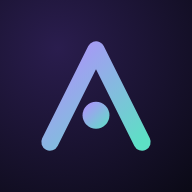
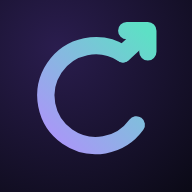
COINFORCE logosu: yükselen C işareti
Uygulama simgeleri (tüm boyutlar) ve uygulama içindeki logolar,
ucu yukarı oka dönüşen coin çemberi 'C' ile değiştirildi.

Claude-Session: https://claude.ai/code/session_014cYbdYCCGfRzC3ECsCHBLf

Changed region(s): [[0.1875, 0.0938, 0.8438, 0.8125]]

diff --git a/index.html b/index.html
@@ -468,7 +468,7 @@ nav.bar button.on .nav-av{box-shadow:0 0 0 2px var(--surface2),0 0 0 4px var(--a
 <div class="auth" id="auth" hidden>
   <div class="auth-in">
     <div class="auth-brand">
-      <svg viewBox="0 0 100 100" aria-hidden="true"><defs><radialGradient id="lgA1" cx=".3" cy=".25" r="1"><stop offset="0" stop-color="#2a1d4e"/><stop offset="1" stop-color="#0b0a17"/></radialGradient><linearGradient id="lgB1" x1="0" y1="0" x2="1" y2="1"><stop offset="0" stop-color="#b58cff"/><stop offset="1" stop-color="#5de0c5"/></linearGradient></defs><rect width="100" height="100" rx="24" fill="url(#lgA1)"/><path d="M26 74 L50 26 L74 74" fill="none" stroke="url(#lgB1)" stroke-width="9" stroke-linecap="round" stroke-linejoin="round"/><circle cx="50" cy="60" r="7" fill="url(#lgB1)"/></svg>
+      <svg viewBox="0 0 100 100" aria-hidden="true"><defs><radialGradient id="lgA1" cx=".3" cy=".25" r="1"><stop offset="0" stop-color="#2a1d4e"/><stop offset="1" stop-color="#0b0a17"/></radialGradient><linearGradient id="lgB1" gradientUnits="userSpaceOnUse" x1="20" y1="80" x2="80" y2="20"><stop offset="0" stop-color="#b58cff"/><stop offset="1" stop-color="#5de0c5"/></linearGradient></defs><rect width="100" height="100" rx="24" fill="url(#lgA1)"/><g transform="translate(50 50) scale(1) translate(-50 -50)"><path d="M71 65 A26 26 0 1 1 64 28" fill="none" stroke="url(#lgB1)" stroke-width="9" stroke-linecap="round"/><path d="M64 28 L76 17" stroke="url(#lgB1)" stroke-width="9" stroke-linecap="round"/><path d="M66 16 H77 V27" fill="none" stroke="url(#lgB1)" stroke-width="9" stroke-linecap="round" stroke-linejoin="round"/></g></svg>
       <div class="auth-name">COINFORCE</div>
       <p>Kripto al, sat, takas et. Sanal bakiyeyle risksiz dene.</p>
     </div>
@@ -513,7 +513,7 @@ nav.bar button.on .nav-av{box-shadow:0 0 0 2px var(--surface2),0 0 0 4px var(--a
 <!-- HOME -->
 <div class="screen" id="s-home">
   <div class="top">
-    <div class="logo"><svg viewBox="0 0 100 100" aria-hidden="true"><defs><radialGradient id="lgA2" cx=".3" cy=".25" r="1"><stop offset="0" stop-color="#2a1d4e"/><stop offset="1" stop-color="#0b0a17"/></radialGradient><linearGradient id="lgB2" x1="0" y1="0" x2="1" y2="1"><stop offset="0" stop-color="#b58cff"/><stop offset="1" stop-color="#5de0c5"/></linearGradient></defs><rect width="100" height="100" rx="24" fill="url(#lgA2)"/><path d="M26 74 L50 26 L74 74" fill="none" stroke="url(#lgB2)" stroke-width="9" stroke-linecap="round" stroke-linejoin="round"/><circle cx="50" cy="60" r="7" fill="url(#lgB2)"/></svg>COINFORCE<span class="demo-tag">Demo</span></div>
+    <div class="logo"><svg viewBox="0 0 100 100" aria-hidden="true"><defs><radialGradient id="lgA2" cx=".3" cy=".25" r="1"><stop offset="0" stop-color="#2a1d4e"/><stop offset="1" stop-color="#0b0a17"/></radialGradient><linearGradient id="lgB2" gradientUnits="userSpaceOnUse" x1="20" y1="80" x2="80" y2="20"><stop offset="0" stop-color="#b58cff"/><stop offset="1" stop-color="#5de0c5"/></linearGradient></defs><rect width="100" height="100" rx="24" fill="url(#lgA2)"/><g transform="translate(50 50) scale(1) translate(-50 -50)"><path d="M71 65 A26 26 0 1 1 64 28" fill="none" stroke="url(#lgB2)" stroke-width="9" stroke-linecap="round"/><path d="M64 28 L76 17" stroke="url(#lgB2)" stroke-width="9" stroke-linecap="round"/><path d="M66 16 H77 V27" fill="none" stroke="url(#lgB2)" stroke-width="9" stroke-linecap="round" stroke-linejoin="round"/></g></svg>COINFORCE<span class="demo-tag">Demo</span></div>
     <div class="top-r"><button class="icon-btn bell" type="button" data-open="notifs" aria-label="Bildirimler"><svg viewBox="0 0 24 24" fill="none" stroke="currentColor" stroke-width="2.2" stroke-linecap="round" stroke-linejoin="round"><path d="M6 8a6 6 0 0 1 12 0c0 7 3 9 3 9H3s3-2 3-9"/><path d="M10.3 21a1.9 1.9 0 0 0 3.4 0"/></svg><span class="badge" id="notifBadge" hidden>0</span></button>
     <button class="icon-btn" id="themeBtn" type="button" aria-label="Temayı değiştir"><svg viewBox="0 0 24 24" fill="none" stroke="currentColor" stroke-width="2"><circle cx="12" cy="12" r="8"/><path d="M12 4a8 8 0 0 0 0 16z" fill="currentColor"/></svg></button></div>
   </div>

diff --git a/sw.js b/sw.js
@@ -1,5 +1,5 @@
 // COINFORCE service worker: uygulama kabuğunu önbelleğe alır; veriler her zaman sunucudan gelir.
-const CACHE = "arx-v3";
+const CACHE = "arx-v4";
 const SHELL = ["./", "./index.html", "./manifest.json", "./icon-192.png", "./icon-512.png", "./apple-touch-icon.png"];
 
 self.addEventListener("install", e => {
